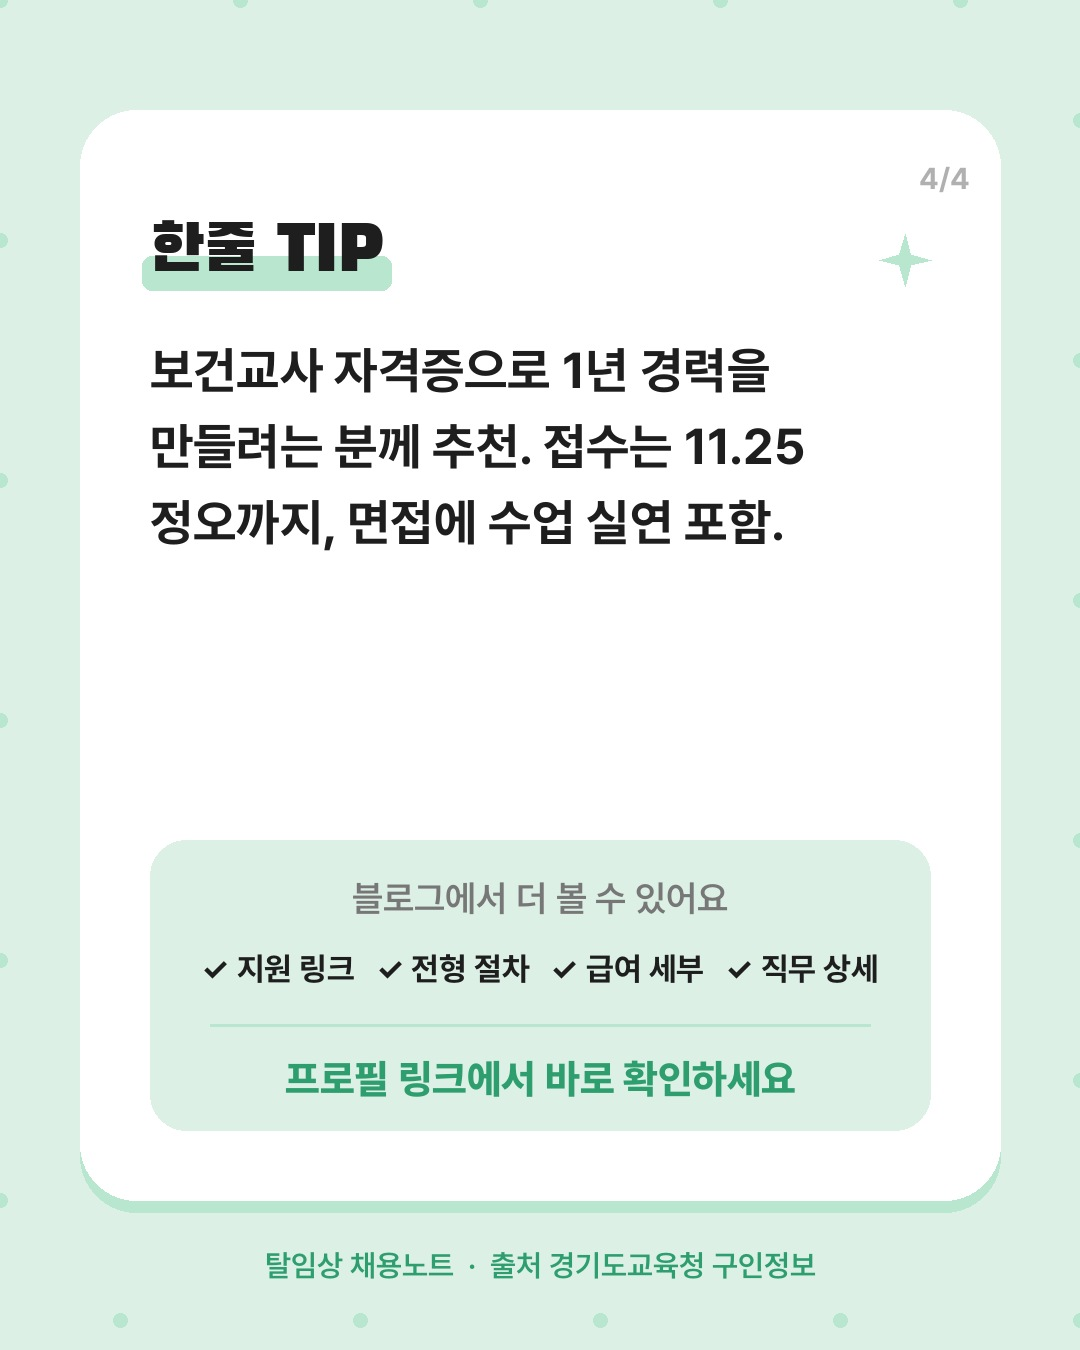
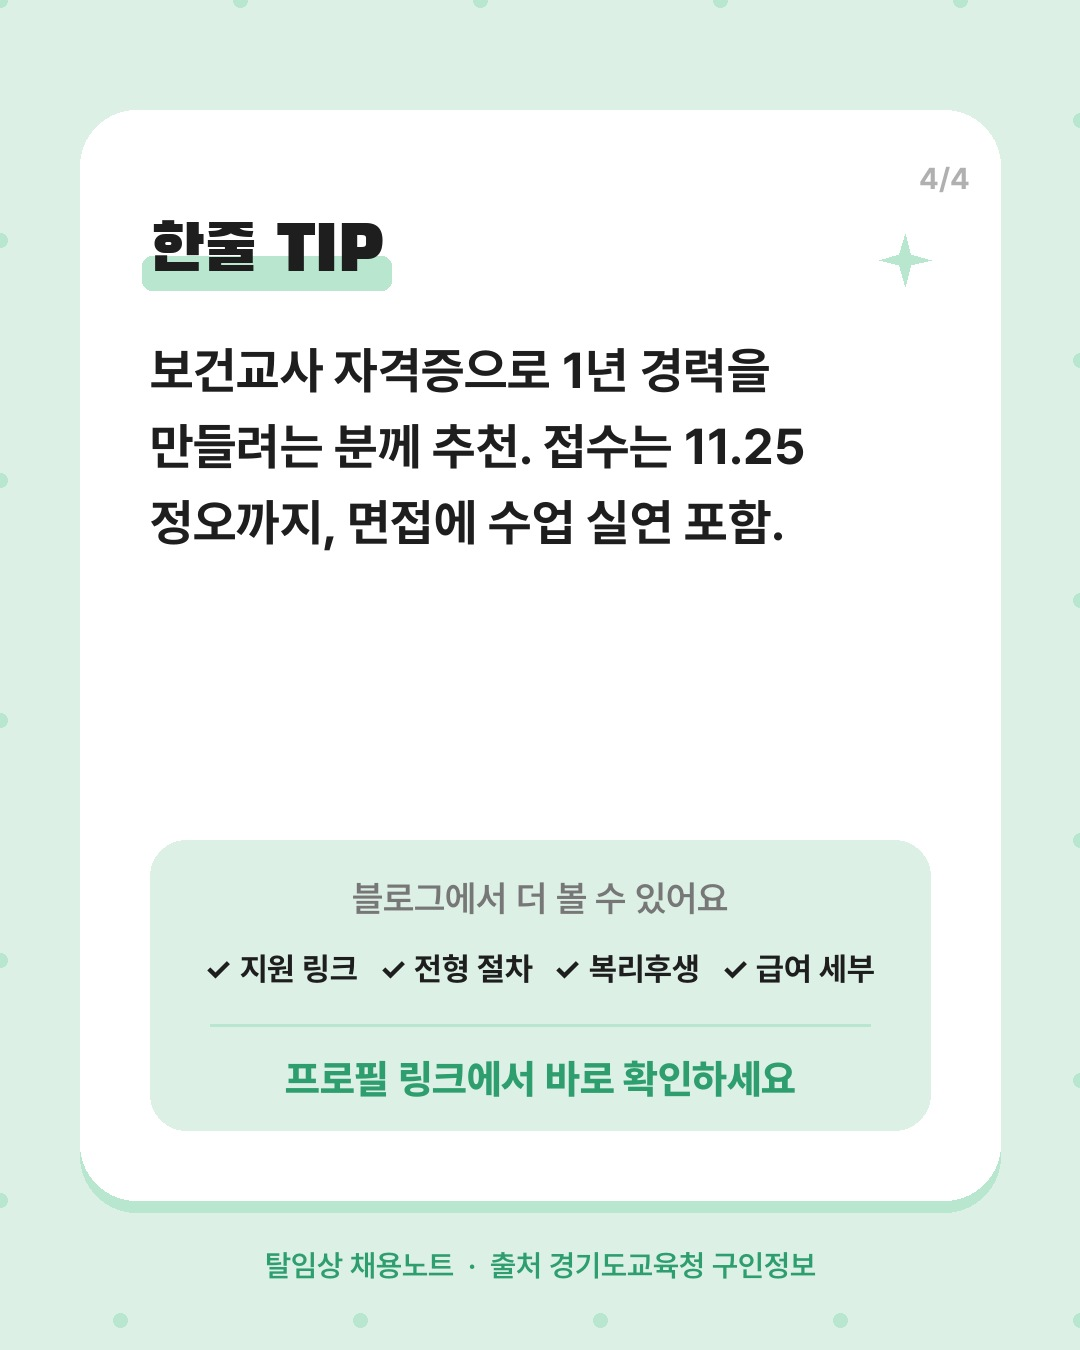
연성초 보건교사 공고문(hwpx)으로 보수·근무·복리후생 보완 2026-11-24
Claude-Session: https://claude.ai/code/session_015ozFBvjxcWAyqLYfTbBGCZ

diff --git a/docs/2026-11-24/index.html b/docs/2026-11-24/index.html
@@ -64,18 +64,20 @@ a{color:var(--accent)}ul.days{padding-left:1.2em}
 <tr><td style="width:30%;background:#f5f5f5"><b>채용 인원</b></td><td>1명</td></tr>
 <tr><td style="width:30%;background:#f5f5f5"><b>고용 형태</b></td><td>기간제교원 (1년 계약) (2026.12.01~2027.11.30 (1년))</td></tr>
 <tr><td style="width:30%;background:#f5f5f5"><b>근무지</b></td><td>경기 수원시</td></tr>
-<tr><td style="width:30%;background:#f5f5f5"><b>급여</b></td><td>시급 (공고문 확인 필요)</td></tr>
-<tr><td style="width:30%;background:#f5f5f5"><b>근무 시간</b></td><td>주 40시간</td></tr>
+<tr><td style="width:30%;background:#f5f5f5"><b>급여</b></td><td>호봉 봉급 (공무원보수규정)</td></tr>
+<tr><td style="width:30%;background:#f5f5f5"><b>근무 시간</b></td><td>전일제 근무 (주 40시간)</td></tr>
 <tr><td style="width:30%;background:#f5f5f5"><b>접수 기간</b></td><td>11월 23일 ~ 11월 25일 12:00 (D-1)</td></tr>
 </table><p>&nbsp;</p>
-<h2>💰 급여</h2><ul><li>모집정보: 시급 (금액은 첨부 공고문 확인)</li></ul><p>&nbsp;</p>
-<h2>✅ 지원 자격</h2><ul><li>보건교사 정교사자격 소지자</li><li>국가공무원법 제33조 임용 결격사유에 해당되지 아니한 자</li><li>교육공무원 정년(만65세) 미해당자 (1차 공고는 65세까지, 2차 공고부터 70세까지)</li></ul><p>&nbsp;</p>
-<h2>⭐ 우대 사항</h2><ul><li>보건교사(1,2급) 자격증 소지자</li></ul><p>&nbsp;</p>
+<h2>💰 급여</h2><ul><li>공무원보수규정 제8조에 따라 산정된 호봉의 봉급을 지급, 고정급 (계약에 따름)</li><li>호봉 획정을 위한 경력기간 합산신청서 제출 (해당자)</li></ul><p>&nbsp;</p>
+<h2>🎁 복리후생</h2><ul><li>건강보험·고용보험·산재보험·국민연금 가입</li></ul><p>&nbsp;</p>
+<h2>✅ 지원 자격</h2><ul><li>보건교사 정교사자격 소지자 (보건교사 자격증 소지자)</li><li>국가공무원법 제33조 임용 결격사유에 해당되지 아니한 자</li><li>교육공무원 정년(만65세) 미해당자 — 1차 공고는 만 65세까지, 2차 공고부터 만 70세까지(임용기간 기준)</li><li>명예퇴직교원 지원 가능 (명예퇴직교원만 지원했을 경우 임용, 62세 초과는 일반지원자와 통합심사)</li><li>교육공무원법 제10조의3·10조의4, 아동·청소년 성보호법 제56조 등 채용 제한 사유에 해당하지 않는 자</li><li>병역복무 중인 경우 채용일까지 전역 예정자</li></ul><p>&nbsp;</p>
+<h2>⭐ 우대 사항</h2><ul><li>취업지원대상자(국가유공자 등) 관련 법률에 따라 우대 (보훈(지)청 발급 증명서 제출 시)</li></ul><p>&nbsp;</p>
 <h2>📎 직무내용</h2><ul><li>보건업무 (학교업무 분장표)</li></ul><p>&nbsp;</p>
-<h2>🧭 전형 절차</h2><ol><li>서류전형(11.25 13:30 이후 통보) → 면접 및 수업 실연(11.27 14:40) → 최종합격(11.27 16:30 이후 통보)</li></ol><p>&nbsp;</p>
+<h2>🧭 전형 절차</h2><ol><li>서류전형(11.25 13:30 이후 개별 통보) → 면접 및 수업 실연(11.27 14:40, 본교 2층 회의실) → 최종합격(11.27 16:30 이후 개별 통보)</li></ol><p>&nbsp;</p>
 <h2>💡 한줄 TIP</h2><p>보건교사 자격증으로 1년 경력을 만들려는 분께 추천. 접수는 11.25 정오까지, 면접에 수업 실연 포함.</p><p>&nbsp;</p>
 <h2>🔗 지원하기</h2><ul>
 <li><a href="https://www.goe.go.kr/recruit/ad/func/pb/hnfpPbancList.do?mi=10502">경기도교육청 구인정보조회</a> → <b>"연성초등학교"</b> 검색 후 지원하세요</li>
+<li>접수 방법: 교무실 방문접수(평일 16:00 이전) 또는 이메일(qkraltjs0@korea.kr) — 지원서 및 자기소개서 (서류합격자는 면접 당일 교원자격증 사본·병적증명서 제출)</li>
 </ul><p>※ 공고 내용을 요약한 글입니다. 지원 전 원문 공고문을 꼭 확인하세요.</p><p>&nbsp;</p>
 <p>📢 <b>새 공고는 매일 아침 인스타그램 스토리에 먼저 올라옵니다.</b><br>마감 하루 전 알림도 스토리로 보내드립니다.<br>👉 인스타그램 <a href="https://www.instagram.com/live_in_fact/">@live_in_fact</a> 팔로우하고 놓치지 마세요</p><p>&nbsp;</p>
 <p>#연성초등학교채용 #간호사채용 #탈임상 #탈임상간호사 #연성초채용 #기간제보건교사 #수원보건교사 #경기교육청 #보건교사채용 #간호사이직</p></div></details>
@@ -381,8 +383,8 @@ a{color:var(--accent)}ul.days{padding-left:1.2em}
 
 📍 근무지: 경기 수원시
 ⏰ 마감: 11/25 12:00까지 (D-1)
-💰 급여: 시급 (공고문 확인 필요)
-🕘 근무: 주 40시간
+💰 급여: 호봉 봉급 (공무원보수규정)
+🕘 근무: 전일제 근무 (주 40시간)
 ✅ 자격: 보건교사 정교사 자격 / 교육공무원 정년 미해당
 
 💡 보건교사 자격증으로 1년 경력을 만들려는 분께 추천. 접수는 11.25 정오까지, 면접에 수업 실연 포함.
